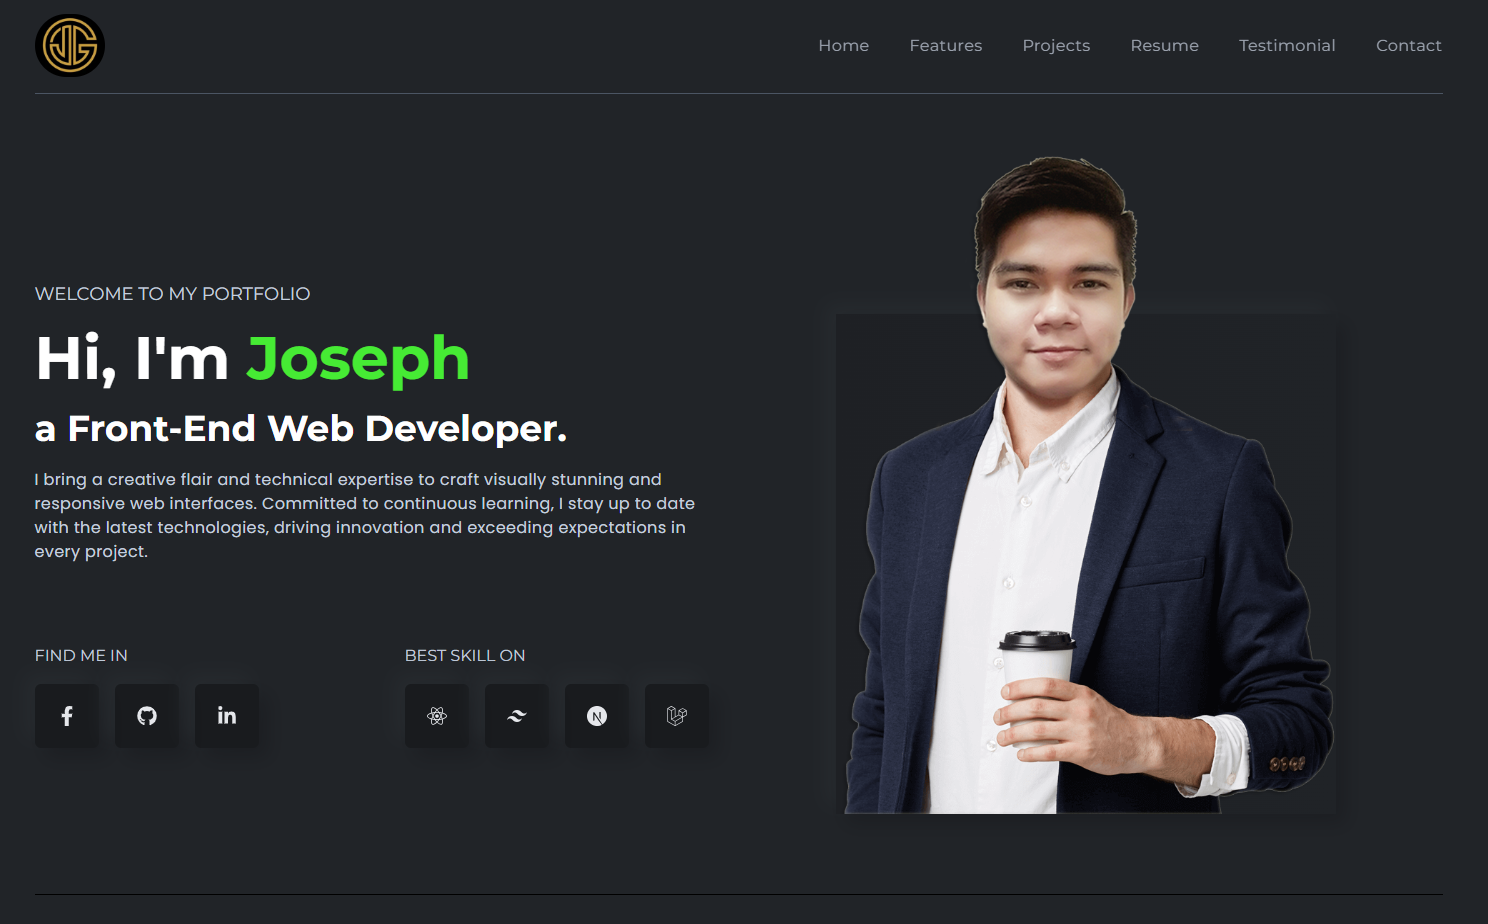
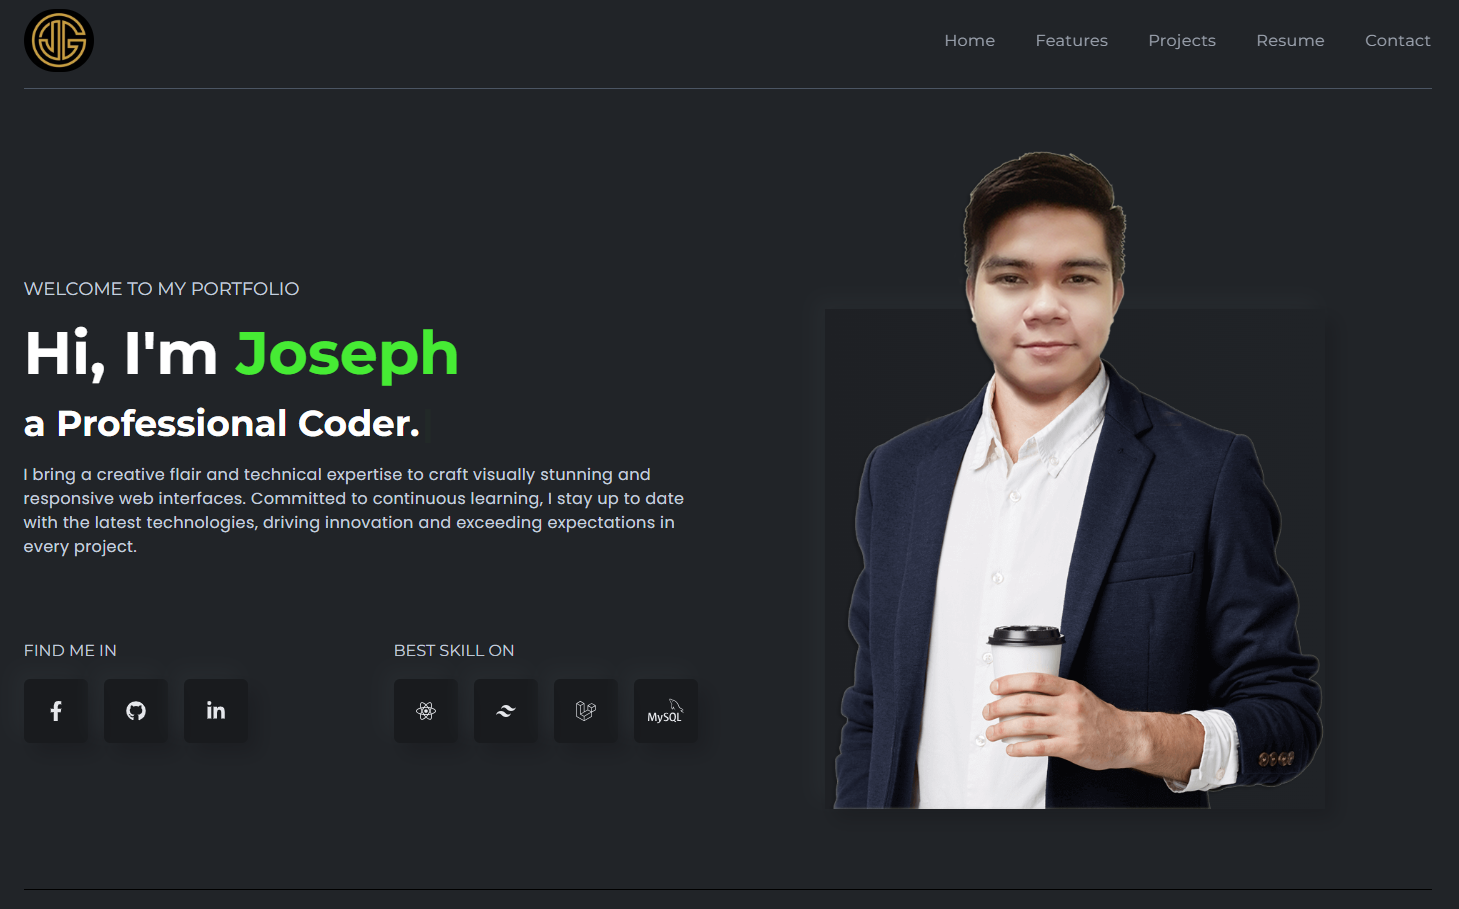
add some photos and information in resume page

diff --git a/src/components/resume/Resume.js b/src/components/resume/Resume.js
@@ -1,0 +1,37 @@
+import React, { useState } from 'react'
+import Title from '../layouts/Title'
+import Education from './Education'
+import Skills from './Skills'
+import Experience from './Experience'
+import Achievements from './Achievements'
+
+const Resume = () => {
+    const [educationData, setEducationData] = useState(true);
+    const [skillData, setSkillData] = useState(false);
+    const [experienceData, setExperienceData] = useState(false);
+    const [achievementData, setAchievementData] = useState(false);
+  return (
+    <section
+      id='resume'
+      className='w-full py-20 border-b-[1px] border-b-black'
+    >
+        <div className="flex justify-center items-center text-center">
+            <Title title='VARIOUS EXPERIENCE' desc='My Resume' />
+        </div>
+        <div>
+            <ul className='w-full grid grid-cols-4'>
+                <li onClick={() => setEducationData(true) & setSkillData(false) & setExperienceData(false) & setAchievementData(false)} className='resumeli'>Education</li>
+                <li onClick={() => setEducationData(false) & setSkillData(true) & setExperienceData(false) & setAchievementData(false)} className='resumeli'>Skills</li>
+                <li onClick={() => setEducationData(false) & setSkillData(false) & setExperienceData(true) & setAchievementData(false)} className='resumeli'>Experince</li>
+                <li onClick={() => setEducationData(false) & setSkillData(false) & setExperienceData(false) & setAchievementData(true)} className='resumeli'>Achievements</li>
+            </ul>
+        </div>
+        {educationData && <Education />}
+        {skillData && <Skills />}
+        {experienceData && <Experience />}
+        {achievementData && <Achievements />}
+    </section>
+  )
+}
+
+export default Resume

diff --git a/src/components/resume/Education.js b/src/components/resume/Education.js
@@ -1,0 +1,38 @@
+import React from 'react'
+import ResumeCard from './ResumeCard'
+import { NEUSTMGTImg, SRNHSImg, TSCSImg } from '../../assets/assetsIndex'
+
+const Education = () => {
+  return (
+    <div>
+        <div className="py-12 font-titleFont">
+            <p className="text-sm text-designColor tracking-[4px]">2003 - 2017</p>
+            <h2 className="text-4xl font-bold">Educational Background</h2>
+        </div>
+        <div className='flex items-center justify-center'>
+            <div className='mt-14 w-[50%] h-[1000px] border-l-[6px] border-l-black border-opacity-30 flex flex-col gap-10'>
+                <ResumeCard 
+                    title='BSIT(Major in Database Application Programming)' 
+                    subTitle='Nueva Ecija University of Science and Technology - MGT (2013-2017)' 
+                    des='I had the privilege of being recognized as a dedicated scholar throughout my entire academic journey, starting from my first year and continuing until the completion of the course.'
+                    src={NEUSTMGTImg}
+                />
+                <ResumeCard 
+                    title='Secondary' 
+                    subTitle='San Ricardo National High School (2009-2013)' 
+                    des='In my time, I was a part of the first section, known as the Special Science Class.'
+                    src={SRNHSImg}
+                />
+                <ResumeCard 
+                    title='Elementary' 
+                    subTitle='Talavera South Central School (2003-2009' 
+                    des="I'm one of the top 10 students in the classroom every year."
+                    src={TSCSImg}
+                />
+            </div>
+        </div>
+    </div>
+  )
+}
+
+export default Education

diff --git a/src/components/resume/ResumeCard.js b/src/components/resume/ResumeCard.js
@@ -1,0 +1,35 @@
+import React from "react";
+
+const ResumeCard = ({ title, subTitle, des, src }) => {
+  return (
+    <div className="w-full h-1/3 group flex">
+      <div className="w-10 h-[6px] bgOpacity mt-16 relative">
+        <span className="absolute w-5 h-5 rounded-full -top-2 -left-3 flex justify-center items-center bg-black bg-opacity-60">
+          <span className="w-3 h-3 rounded-full bg-bodyColor inline-flex group-hover:bg-designColor duration-300"></span>
+        </span>
+      </div>
+      <div className="w-full bg-black bg-opacity-20 hover:bg-opacity-30 duration-300 rounded-lg px-10 flex flex-col justify-center gap-10 shadow-shadowOne relative">
+        <img
+          className="top-0 left-0 w-full h-[250px] object-cover opacity-100 group-hover:opacity-10 duration-300"
+          src={src}
+          alt={title}
+        />
+        <div className="absolute top-0 w-full h-full flex flex-col justify-center gap-10">
+          <div>
+            <h3 className="text-2xl font-semibold group-hover:text-white duration-300 opacity-10 group-hover:opacity-100">
+              {title}
+            </h3>
+            <p className="text-md mt-2 text-gray-400 group-hover:text-white duration-300 opacity-10 group-hover:opacity-100">
+              {subTitle}
+            </p>
+          </div>
+          <p className="text-base text-justify font-medium textgray-400 group-hover:text-gray-300 duration-300 opacity-10 group-hover:opacity-100 pr-[5.5rem]">
+            {des}
+          </p>
+        </div>
+      </div>
+    </div>
+  );
+};
+
+export default ResumeCard;

diff --git a/src/components/banner/LeftBanner.js b/src/components/banner/LeftBanner.js
@@ -1,7 +1,7 @@
 import React from "react";
 import { useTypewriter, Cursor } from "react-simple-typewriter";
 import { FaFacebookF, FaGithub, FaLinkedinIn, FaReact } from "react-icons/fa";
-import { SiTailwindcss, SiNextdotjs, SiLaravel } from "react-icons/si";
+import { SiTailwindcss, SiLaravel, SiMysql } from "react-icons/si";
 
 const LeftBanner = () => {
   const [text] = useTypewriter({
@@ -68,10 +68,10 @@ const LeftBanner = () => {
               <SiTailwindcss />
             </span>
             <span className="bannerIcon">
-              <SiNextdotjs />
-            </span>
-            <span className="bannerIcon">
               <SiLaravel />
+            </span>
+            <span className="bannerIcon text-4xl">
+              <SiMysql />
             </span>
           </div>
         </div>

diff --git a/src/index.css b/src/index.css
@@ -4,7 +4,17 @@
 @tailwind utilities;
 
 @layer components{
-    .bannerIcon{
+    .bannerIcon {
         @apply w-16 h-16 bg-black bg-opacity-25 text-gray-200 text-xl inline-flex items-center justify-center rounded-md shadow-shadowOne hover:bg-opacity-40 hover:translate-y-1 transition-all hover:text-designColor cursor-pointer duration-300;
     }
+    .resumeli {
+        @apply w-full h-20 bg-black bg-opacity-25 text-xl text-gray-300 flex justify-center cursor-pointer hover:bg-opacity-40 duration-300 items-center border-[1px] rounded-none border-none;
+    }
+    .bgOpacity {
+        @apply bg-black bg-opacity-40;
+    }
+}
+
+.active{
+    color: white;
 }

diff --git a/src/assets/assetsIndex.js b/src/assets/assetsIndex.js
@@ -6,6 +6,9 @@ import javascriptCert from "./images/certificates/javascript cert.png";
 import contactImg from "./images/contacts/contactImg.png";
 import project1 from "./images/projects/project1-travel-reservation.png";
 import project2 from "./images/projects/myportfolioImg.png";
+import NEUSTMGTImg from "./images/school/NEUST-MGT.png";
+import SRNHSImg from "./images/school/SRNHS.png";
+import TSCSImg from "./images/school/TSCS1.png";
 
 export {
     logo,
@@ -16,4 +19,7 @@ export {
     contactImg,
     project1,
     project2,
+    NEUSTMGTImg,
+    SRNHSImg,
+    TSCSImg
 };

diff --git a/src/App.js b/src/App.js
@@ -3,6 +3,7 @@ import Navbar from "./components/navbar/Navbar";
 import Banner from "./components/banner/Banner";
 import Features from "./components/features/Features";
 import Projects from "./components/projects/Projects";
+import Resume from "./components/resume/Resume";
 
 function App() {
   return (
@@ -12,6 +13,7 @@ function App() {
         <Banner />
         <Features />
         <Projects />
+        <Resume />
       </div>
     </div>
   );

diff --git a/src/constants/constantsIndex.js b/src/constants/constantsIndex.js
@@ -20,11 +20,6 @@ export const navLinksdata = [
       link: "resume",
     },
     {
-      _id: 1005,
-      title: "Testimonial",
-      link: "testimonial",
-    },
-    {
       _id: 1006,
       title: "Contact",
       link: "contact",

diff --git a/src/components/resume/Achievements.js b/src/components/resume/Achievements.js
@@ -1,0 +1,9 @@
+import React from 'react'
+
+const Achievements = () => {
+  return (
+    <div>Achievements</div>
+  )
+}
+
+export default Achievements

diff --git a/src/components/resume/Experience.js b/src/components/resume/Experience.js
@@ -1,0 +1,9 @@
+import React from 'react'
+
+const Experience = () => {
+  return (
+    <div>Experience</div>
+  )
+}
+
+export default Experience

diff --git a/src/components/resume/Skills.js b/src/components/resume/Skills.js
@@ -1,0 +1,9 @@
+import React from 'react'
+
+const Skills = () => {
+  return (
+    <div>Skills</div>
+  )
+}
+
+export default Skills
